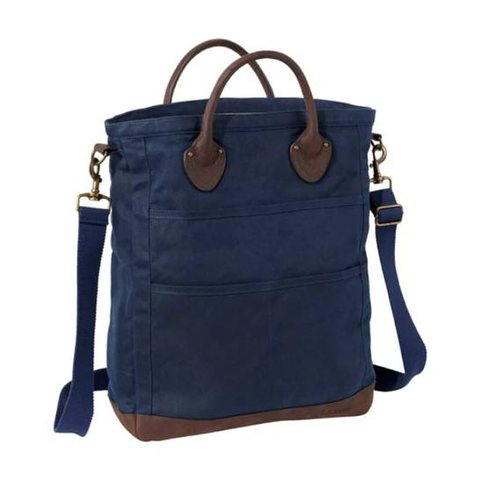
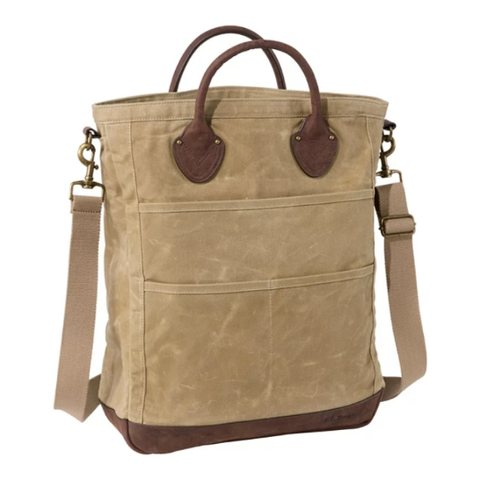
Tote in Dark Khaki; swap Butter Bell for ADIVEE butter dish
Claude-Session: https://claude.ai/code/session_01DVLxHJta9TaYUn9n6QGdu7

diff --git a/index.html b/index.html
@@ -160,7 +160,7 @@ footer{color:var(--muted);font-size:14px;border-top:1px solid var(--line);margin
 <script>
 {
 const USD = 1.40; // rough rate, used only for sorting and the ≈ C$ hint
-const ITEMS = [{"id": "breadbox", "name": "Tower Bread Box (Steel)", "detail": "Yamazaki Home · colour: Black", "price": 205.0, "cur": "CAD", "cat": "Kitchen & Coffee", "url": "https://theyamazakihome.com/en-ca/products/tower-bread-box?variant=31351750164567"}, {"id": "homeview", "name": "Apple HomeView", "detail": "Apple · Space Grey", "price": 429.0, "cur": "CAD", "cat": "Tech", "url": "https://www.apple.com/ca/shop/buy-home/apple-homeview/apple-homeview-space-gray"}, {"id": "picpak", "name": "PicPak Mini E-Ink Album, 3-pack", "detail": "Pick the 3-Pack, one of each colour (black, blue, red)", "price": 179.0, "cur": "USD", "cat": "Tech", "url": "https://www.picpak.tech/products/pocket-size-e-ink-album"}, {"id": "stickerpix", "name": "Cricut StickerPix Print + Cut", "detail": "Powder Blue · Essential Bundle", "price": 349.0, "cur": "CAD", "cat": "Tech", "url": "https://cricut.com/en-ca/sticker-machines/cricut-stickerpix-print-cut/cricut-stickerpix-print-cut-powder-blue-essential-bundle/2013409.html"}, {"id": "yeti", "name": "YETI Yonder Water Bottle", "detail": "1 L with Yonder Chug Cap · colour: Charcoal", "price": 38.0, "cur": "CAD", "cat": "Bags & Gear", "url": "https://www.amazon.ca/dp/B0BTTW1GJK"}, {"id": "waxedtote", "name": "Waxed Canvas Tote II", "detail": "L.L.Bean", "price": 199.0, "cur": "CAD", "cat": "Bags & Gear", "url": "https://www.llbean.ca/llb/shop/5871326.html?page=Waxed-Canvas-Tote-II"}, {"id": "shirtjac", "name": "Men's Signature Jacquard Shirt Jac", "detail": "L.L.Bean · colour: Deep Rosewood · size: Large", "price": 245.0, "cur": "CAD", "cat": "Clothing", "url": "https://www.llbean.ca/llb/shop/5866802.html"}, {"id": "mariner", "name": "Men's Mariner Sweatshirt", "detail": "L.L.Bean · size: Large", "price": 145.0, "cur": "CAD", "cat": "Clothing", "url": "https://www.llbean.ca/llb/shop/5826649.html"}, {"id": "twill", "name": "Men's Signature Fisherman Twill Shirt", "detail": "L.L.Bean · colour: Thyme · size: Large", "price": 145.0, "cur": "CAD", "cat": "Clothing", "url": "https://www.llbean.ca/llb/shop/5866768.html"}, {"id": "blanket", "name": "Fleece Wearable Blanket with Sleeves", "detail": "YUGYVOB · Brown, Large", "price": 35.99, "cur": "CAD", "cat": "Clothing", "url": "https://www.amazon.ca/dp/B0FJFLHWND"}, {"id": "transformers", "name": "Transformers", "detail": "4K UHD + Blu-ray", "price": 35.88, "cur": "CAD", "cat": "Movies", "url": "https://www.amazon.ca/dp/B076BK4DFL"}, {"id": "horizon", "name": "Horizon Zero Dawn Remastered", "detail": "PS5", "price": 55.73, "cur": "CAD", "cat": "Video Games", "url": "https://www.amazon.ca/dp/B0DJ7W2WXV"}, {"id": "007", "name": "007 First Light – Specialist Edition", "detail": "PS5", "price": 89.99, "cur": "CAD", "cat": "Video Games", "url": "https://www.amazon.ca/dp/B0FBHCYKXX"}, {"id": "darkknight", "name": "The Dark Knight Trilogy", "detail": "4K UHD + Blu-ray", "price": 44.98, "cur": "CAD", "cat": "Movies", "url": "https://www.amazon.ca/dp/B0774D6HBB"}, {"id": "odyssey", "name": "The Odyssey (2026)", "detail": "4K UHD Blu-ray", "price": 34.99, "cur": "CAD", "cat": "Movies", "url": "https://www.amazon.ca/dp/B0HMXD5W7K"}, {"id": "twisters", "name": "Twisters Double Feature Steelbook", "detail": "4K UHD · Limited Edition", "price": 34.98, "cur": "CAD", "cat": "Movies", "url": "https://www.amazon.ca/dp/B0FG9TKT9J"}, {"id": "endgame", "name": "Avengers: Endgame", "detail": "4K UHD + Blu-ray + Digital", "price": 32.99, "cur": "CAD", "cat": "Movies", "url": "https://www.amazon.ca/dp/B07R4479C1"}, {"id": "infinitywar", "name": "Avengers: Infinity War", "detail": "4K UHD + Blu-ray + Digital (Bilingual)", "price": 34.99, "cur": "CAD", "cat": "Movies", "url": "https://www.amazon.ca/dp/B07CBLSGQX"}, {"id": "lotr", "name": "The Lord of the Rings Trilogy", "detail": "Extended & Theatrical · 4K UHD", "price": 69.06, "cur": "CAD", "cat": "Movies", "url": "https://www.amazon.ca/dp/B08KQBYM1Y"}, {"id": "df54", "name": "DF54 Single Dose Espresso Grinder", "detail": "Black", "price": 328.88, "cur": "CAD", "cat": "Kitchen & Coffee", "url": "https://www.amazon.ca/dp/B0DBD96WHL"}, {"id": "misenware", "name": "Misenware 12-Piece Food Storage Set", "detail": "Misen · stainless steel containers with lids", "price": 201.0, "cur": "CAD", "cat": "Kitchen & Coffee", "url": "https://misen.com/products/misenware-12-piece-mixed"}, {"id": "butterbell", "name": "Butter Bell Crock", "detail": "French ceramic butter keeper · blue trim", "price": 46.95, "cur": "CAD", "cat": "Kitchen & Coffee", "url": "https://www.amazon.ca/dp/B000FBL3IC"}, {"id": "patchwork", "name": "Patchwork", "detail": "10th Anniversary Edition · 2-player board game", "price": 54.99, "cur": "CAD", "cat": "Board Games", "url": "https://www.amazon.ca/dp/B0DK6ZZR94"}, {"id": "lotr-duel", "name": "The Lord of the Rings: Duel for Middle-earth", "detail": "2-player board game · Repos / Asmodee", "price": 27.62, "cur": "CAD", "cat": "Board Games", "url": "https://www.amazon.ca/dp/B0DFF3V1Q7"}, {"id": "agent-avenue", "name": "Agent Avenue", "detail": "2-player bluffing card game · Nerdlab Games", "price": 50.31, "cur": "CAD", "cat": "Board Games", "url": "https://www.amazon.ca/dp/B0FF2DFXTD"}];
+const ITEMS = [{"id": "breadbox", "name": "Tower Bread Box (Steel)", "detail": "Yamazaki Home · colour: Black", "price": 205.0, "cur": "CAD", "cat": "Kitchen & Coffee", "url": "https://theyamazakihome.com/en-ca/products/tower-bread-box?variant=31351750164567"}, {"id": "homeview", "name": "Apple HomeView", "detail": "Apple · Space Grey", "price": 429.0, "cur": "CAD", "cat": "Tech", "url": "https://www.apple.com/ca/shop/buy-home/apple-homeview/apple-homeview-space-gray"}, {"id": "picpak", "name": "PicPak Mini E-Ink Album, 3-pack", "detail": "Pick the 3-Pack, one of each colour (black, blue, red)", "price": 179.0, "cur": "USD", "cat": "Tech", "url": "https://www.picpak.tech/products/pocket-size-e-ink-album"}, {"id": "stickerpix", "name": "Cricut StickerPix Print + Cut", "detail": "Powder Blue · Essential Bundle", "price": 349.0, "cur": "CAD", "cat": "Tech", "url": "https://cricut.com/en-ca/sticker-machines/cricut-stickerpix-print-cut/cricut-stickerpix-print-cut-powder-blue-essential-bundle/2013409.html"}, {"id": "yeti", "name": "YETI Yonder Water Bottle", "detail": "1 L with Yonder Chug Cap · colour: Charcoal", "price": 38.0, "cur": "CAD", "cat": "Bags & Gear", "url": "https://www.amazon.ca/dp/B0BTTW1GJK"}, {"id": "waxedtote", "name": "Waxed Canvas Tote II", "detail": "L.L.Bean · colour: Dark Khaki", "price": 199.0, "cur": "CAD", "cat": "Bags & Gear", "url": "https://www.llbean.ca/llb/shop/5871326.html?page=Waxed-Canvas-Tote-II"}, {"id": "shirtjac", "name": "Men's Signature Jacquard Shirt Jac", "detail": "L.L.Bean · colour: Deep Rosewood · size: Large", "price": 245.0, "cur": "CAD", "cat": "Clothing", "url": "https://www.llbean.ca/llb/shop/5866802.html"}, {"id": "mariner", "name": "Men's Mariner Sweatshirt", "detail": "L.L.Bean · size: Large", "price": 145.0, "cur": "CAD", "cat": "Clothing", "url": "https://www.llbean.ca/llb/shop/5826649.html"}, {"id": "twill", "name": "Men's Signature Fisherman Twill Shirt", "detail": "L.L.Bean · colour: Thyme · size: Large", "price": 145.0, "cur": "CAD", "cat": "Clothing", "url": "https://www.llbean.ca/llb/shop/5866768.html"}, {"id": "blanket", "name": "Fleece Wearable Blanket with Sleeves", "detail": "YUGYVOB · Brown, Large", "price": 35.99, "cur": "CAD", "cat": "Clothing", "url": "https://www.amazon.ca/dp/B0FJFLHWND"}, {"id": "transformers", "name": "Transformers", "detail": "4K UHD + Blu-ray", "price": 35.88, "cur": "CAD", "cat": "Movies", "url": "https://www.amazon.ca/dp/B076BK4DFL"}, {"id": "horizon", "name": "Horizon Zero Dawn Remastered", "detail": "PS5", "price": 55.73, "cur": "CAD", "cat": "Video Games", "url": "https://www.amazon.ca/dp/B0DJ7W2WXV"}, {"id": "007", "name": "007 First Light – Specialist Edition", "detail": "PS5", "price": 89.99, "cur": "CAD", "cat": "Video Games", "url": "https://www.amazon.ca/dp/B0FBHCYKXX"}, {"id": "darkknight", "name": "The Dark Knight Trilogy", "detail": "4K UHD + Blu-ray", "price": 44.98, "cur": "CAD", "cat": "Movies", "url": "https://www.amazon.ca/dp/B0774D6HBB"}, {"id": "odyssey", "name": "The Odyssey (2026)", "detail": "4K UHD Blu-ray", "price": 34.99, "cur": "CAD", "cat": "Movies", "url": "https://www.amazon.ca/dp/B0HMXD5W7K"}, {"id": "twisters", "name": "Twisters Double Feature Steelbook", "detail": "4K UHD · Limited Edition", "price": 34.98, "cur": "CAD", "cat": "Movies", "url": "https://www.amazon.ca/dp/B0FG9TKT9J"}, {"id": "endgame", "name": "Avengers: Endgame", "detail": "4K UHD + Blu-ray + Digital", "price": 32.99, "cur": "CAD", "cat": "Movies", "url": "https://www.amazon.ca/dp/B07R4479C1"}, {"id": "infinitywar", "name": "Avengers: Infinity War", "detail": "4K UHD + Blu-ray + Digital (Bilingual)", "price": 34.99, "cur": "CAD", "cat": "Movies", "url": "https://www.amazon.ca/dp/B07CBLSGQX"}, {"id": "lotr", "name": "The Lord of the Rings Trilogy", "detail": "Extended & Theatrical · 4K UHD", "price": 69.06, "cur": "CAD", "cat": "Movies", "url": "https://www.amazon.ca/dp/B08KQBYM1Y"}, {"id": "df54", "name": "DF54 Single Dose Espresso Grinder", "detail": "Black", "price": 328.88, "cur": "CAD", "cat": "Kitchen & Coffee", "url": "https://www.amazon.ca/dp/B0DBD96WHL"}, {"id": "misenware", "name": "Misenware 12-Piece Food Storage Set", "detail": "Misen · stainless steel containers with lids", "price": 201.0, "cur": "CAD", "cat": "Kitchen & Coffee", "url": "https://misen.com/products/misenware-12-piece-mixed"}, {"id": "butterdish", "name": "Large Butter Dish with Lid", "detail": "ADIVEE · porcelain, fits a 1 lb Canadian block · Yellow", "price": 25.02, "cur": "CAD", "cat": "Kitchen & Coffee", "url": "https://www.amazon.ca/dp/B0F5WZVX7W?th=1"}, {"id": "patchwork", "name": "Patchwork", "detail": "10th Anniversary Edition · 2-player board game", "price": 54.99, "cur": "CAD", "cat": "Board Games", "url": "https://www.amazon.ca/dp/B0DK6ZZR94"}, {"id": "lotr-duel", "name": "The Lord of the Rings: Duel for Middle-earth", "detail": "2-player board game · Repos / Asmodee", "price": 27.62, "cur": "CAD", "cat": "Board Games", "url": "https://www.amazon.ca/dp/B0DFF3V1Q7"}, {"id": "agent-avenue", "name": "Agent Avenue", "detail": "2-player bluffing card game · Nerdlab Games", "price": 50.31, "cur": "CAD", "cat": "Board Games", "url": "https://www.amazon.ca/dp/B0FF2DFXTD"}];
 const store = u => { const h = new URL(u).hostname.replace(/^www\./,'');
   return ({'amazon.ca':'Amazon.ca','llbean.ca':'L.L.Bean','apple.com':'Apple','cricut.com':'Cricut','yeti.ca':'YETI','picpak.tech':'PicPak','theyamazakihome.com':'Yamazaki Home','misen.com':'Misen'})[h] || h; };
 const cad = it => it.price == null ? null : (it.cur === 'USD' ? it.price * USD : it.price);
